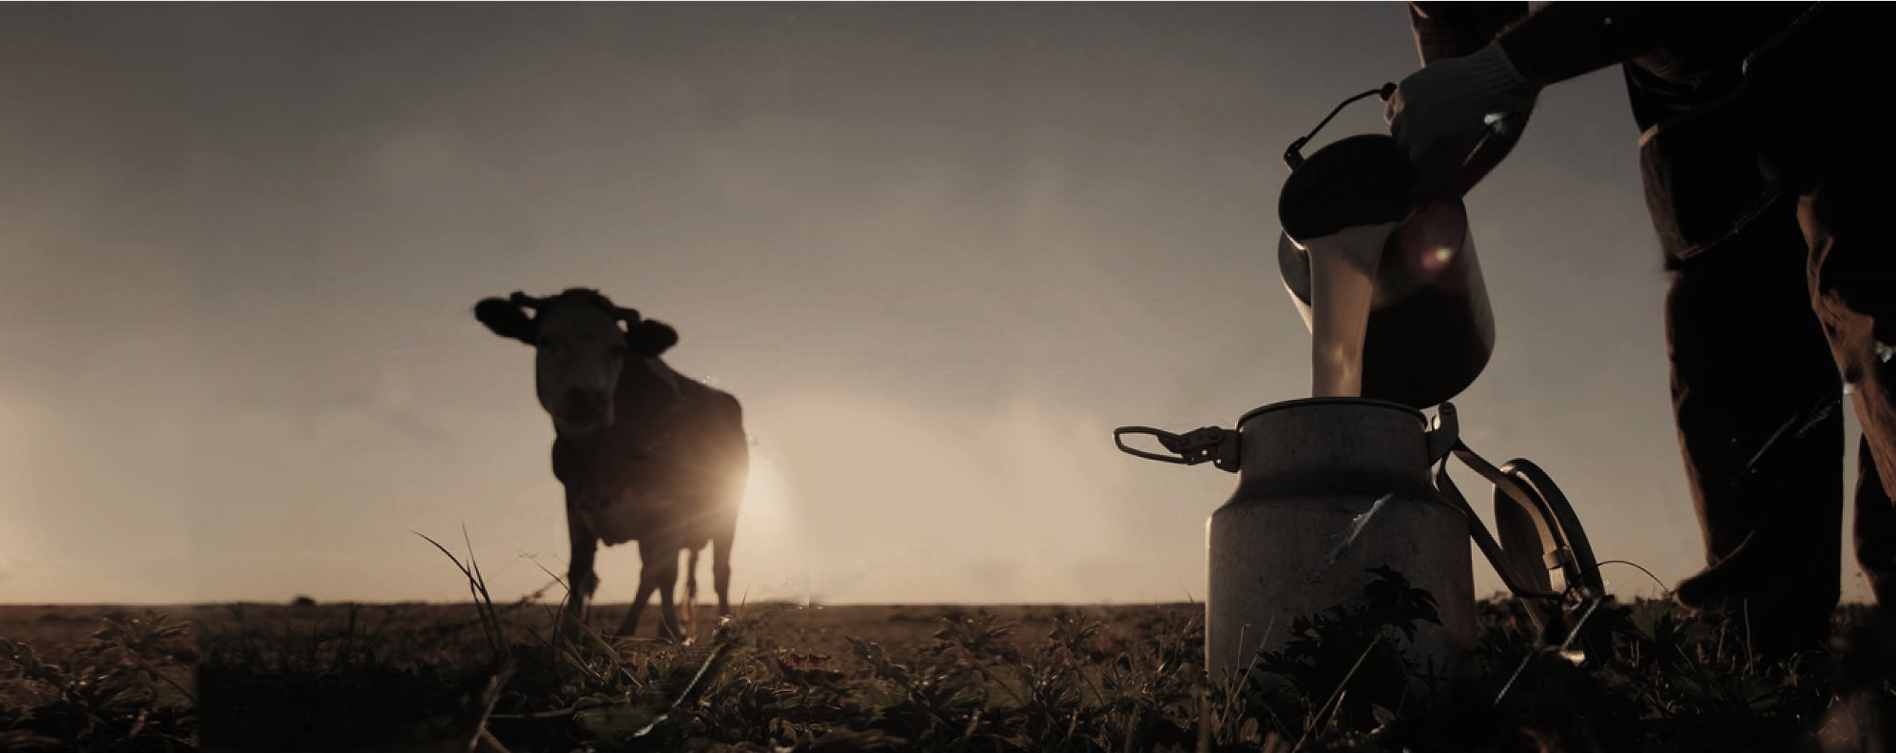
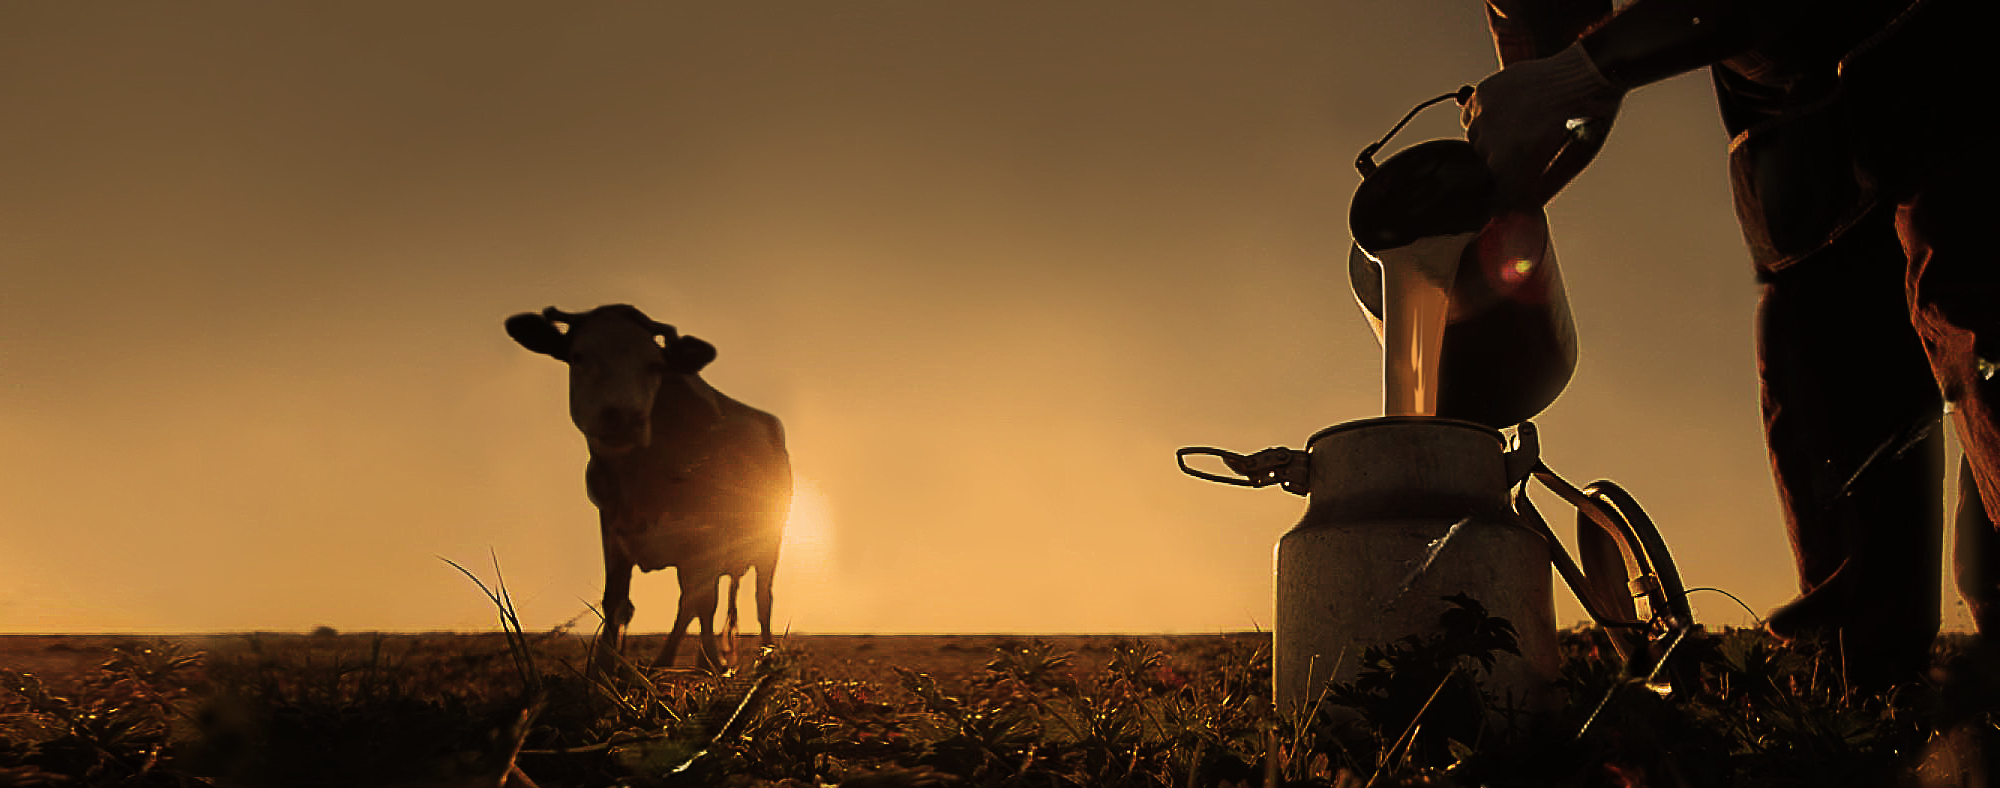
mediq query images changes

diff --git a/my-app/src/Components/About/index.js b/my-app/src/Components/About/index.js
@@ -1,28 +1,28 @@
 import React, { useState } from "react";
 import "./styles.css";
-import about1 from "../../Images/4.jpg";
-import about2 from "../../Images/farmerCow.png";
-import about3 from "../../Images/cowChef.jpg";
-import brandImage from "../../Images/brands/Brands.jpg"; // Replace with your actual image path
+import desktopAbout1 from "../../Images/4.jpg"; // Desktop version
+import phoneAbout1 from "../../Images/about1.png";   // Phone version
+import desktopAbout2 from "../../Images/farmerCow.png";
+import phoneAbout2 from "../../Images/aboutus2.png";
+import desktopAbout3 from "../../Images/cowChef.jpg";
+import phoneAbout3 from "../../Images/about3.png";
+import brandImage from "../../Images/brands/Brands.jpg";
 
 function About() {
   const [isDialogOpen, setDialogOpen] = useState(false);
 
-  const openDialog = () => {
-    setDialogOpen(true);
-  };
-
-  const closeDialog = () => {
-    setDialogOpen(false);
-  };
+  const openDialog = () => setDialogOpen(true);
+  const closeDialog = () => setDialogOpen(false);
 
   return (
     <div className="about-container">
       {/* Section 1 */}
-      <section
-        className="about-section"
-        style={{ backgroundImage: `url(${about1})` }}
-      >
+      <section className="about-section">
+        <picture>
+          <source media="(max-width: 1023px)" srcset={phoneAbout1} />
+          <source media="(min-width: 1024px)" srcset={desktopAbout1} />
+          <img src={desktopAbout1} alt="Section 1 Background" className="background-image" />
+        </picture>
         <div className="overlay">
           <p>
             We are not an AD agency, <br /> but an ADD agency that adds <br /> long-term value to elevate
@@ -32,10 +32,12 @@ function About() {
       </section>
 
       {/* Section 2 */}
-      <section
-        className="about-section"
-        style={{ backgroundImage: `url(${about2})` }}
-      >
+      <section className="about-section">
+        <picture>
+          <source media="(max-width: 1023px)" srcset={phoneAbout2} />
+          <source media="(min-width: 1024px)" srcset={desktopAbout2} />
+          <img src={desktopAbout2} alt="Section 2 Background" className="background-image" />
+        </picture>
         <div className="overlay">
           <p>
             Boosting your business<br />is our business. Because nothing <br /> the cow produces ever go to waste,
@@ -45,10 +47,12 @@ function About() {
       </section>
 
       {/* Section 3 */}
-      <section
-        className="about-section about-section-custom"
-        style={{ backgroundImage: `url(${about3})` }}
-      >
+      <section className="about-section about-section-custom">
+        <picture>
+          <source media="(max-width: 1023px)" srcset={phoneAbout3} />
+          <source media="(min-width: 1024px)" srcset={desktopAbout3} />
+          <img src={desktopAbout3} alt="Section 3 Background" className="background-image" />
+        </picture>
         <div className="custom-overlay">
           <h1>SATYEN PARAB</h1>
           <h2>Founder and Chief Cow</h2>
@@ -56,13 +60,11 @@ function About() {
             Assistant Director (Movies)<br />
             Playwright, Art Director, Director, Actor (Theater)
           </p>
-
           <h3>Ex-Agencies:</h3>
           <p>
             Bates Enterprise,<br /> Publicis India,<br /> Everest Brand Solutions,<br />
             Scarecrow Communications, <br />Salt Brand Solutions
           </p>
-
           <h3>Awards & Recognitions:</h3>
           <p>
             Gold, Silver, and Bronze: Big Bang Awards (Bangalore Ad Club)<br />
@@ -70,16 +72,11 @@ function About() {
             8 Finalists: Goafest Abbys (The Advertising Club)<br />
             Work showcased as the best in Asia within Bates Asia Network<br />
             The Fink Tank Logo Design shortlisted in a worldwide contest<br />
-            Best Writer, Best Art Director, Best Actor at State-Level Theater Awards (Performing Arts)<br />
+            Best Writer, Best Art Director, Best Actor at State-Level Theater Awards<br />
             State Art Awards by Maharashtra Government<br />
           </p>
           <p>
-            <a
-              href="https://www.behance.net/SatyenParab"
-              target="_blank"
-              rel="noopener noreferrer"
-              style={{ color: "white", textDecoration: "underline" }}
-            >
+            <a href="https://www.behance.net/SatyenParab" target="_blank" rel="noopener noreferrer" style={{ color: "white", textDecoration: "underline" }}>
               Founder's previous work
             </a>
             <br />
@@ -96,7 +93,6 @@ function About() {
       {isDialogOpen && (
         <div className="dialog-overlay" onClick={closeDialog}>
           <div className="dialog-box" onClick={(e) => e.stopPropagation()}>
-            {/* Close Icon */}
             <button className="close-button" onClick={closeDialog}>
               <span className="close-icon">×</span>
             </button>

diff --git a/my-app/src/Components/About/styles.css b/my-app/src/Components/About/styles.css
@@ -11,34 +11,38 @@
   display: flex;
   justify-content: center;
   align-items: center;
-  background-size: cover;
-  background-position: center;
-  scroll-snap-align: start;
   position: relative;
-  scroll-snap-align: none;
+  scroll-snap-align: start;
+}
+
+.background-image {
+  width: 100%;
+  height: 100%;
+  object-fit: cover; /* Ensures image covers section without distortion */
+  position: absolute;
+  top: 0;
+  left: 0;
+  z-index: -1;
 }
 
 .overlay {
   padding: 20px;
   text-align: left;
   color: white;
+
   border-radius: 10px;
   font-family: "Helvetica Neue LT Com", sans-serif;
   font-weight: 900;
   font-size: 36px;
+  position: relative;
+  z-index: 1;
 }
+
+/* Remove the ::before pseudo-element since we're using <picture> now */
 .about-section::before {
-  content: "";
-  position: absolute;
-  top: 0;
-  left: 0;
-  width: 100%;
-  height: 100%;
-  background-size: cover;
-  background-position: center;
-  background-repeat: no-repeat;
-  z-index: -1;
+  display: none;
 }
+
 /* Custom styling for the third section */
 .about-section-custom {
   display: flex;
@@ -72,8 +76,9 @@
   line-height: 1.5;
   font-family: "Helvetica Neue LT Com", sans-serif;
 }
+
 /* RESPONSIVE DESIGN */
-@media (max-width: 1024px) {
+@media (max-width: 1023px) {
   .overlay,
   .custom-overlay {
     max-width: 80%;
@@ -94,7 +99,7 @@
   }
 }
 
-@media (max-width: 768px) {
+@media (max-width: 767px) {
   .about-section {
     height: auto;
     padding: 4rem 1rem;
@@ -111,6 +116,7 @@
   .custom-overlay {
     max-width: 90%;
     padding: 1rem;
+     font-size: 26px;
   }
 
   .custom-overlay h1 {
@@ -147,6 +153,8 @@
     font-size: 0.9rem;
   }
 }
+
+/* Dialog Styles (Unchanged) */
 .dialog-overlay {
   position: fixed;
   top: 0;
@@ -189,7 +197,6 @@
   margin-bottom: 15px;
 }
 
-/* Mobile-Friendly Adjustments */
 @media (max-width: 768px) {
   .dialog-box {
     padding: 15px;
@@ -203,12 +210,7 @@
   }
 }
 
-/* Underline and Text Color for Founder's Previous Work */
-.custom-overlay a {
-  color: white;
-  text-decoration: underline;
-}
-
+.custom-overlay a,
 .custom-overlay span {
   color: white;
   text-decoration: underline;

diff --git a/my-app/src/Components/Services/styles.css b/my-app/src/Components/Services/styles.css
@@ -55,6 +55,15 @@
   }
   
   @media (max-width: 768px) {
+    .service-container {
+      width: 100%;
+      height: 100vh;
+      background: url("../../Images/servicesSD.png") no-repeat center center/cover;
+      display: flex;
+      align-items: center;
+      justify-content: center;
+      position: relative;
+    }
     .service-content {
       flex-direction: column;
       text-align: center;
